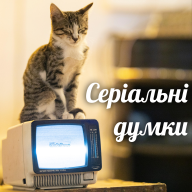
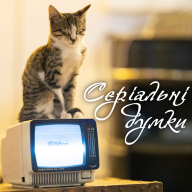
Ukrainian fonts.

diff --git a/index.html b/index.html
@@ -16,15 +16,15 @@
     <meta property="og:description" content="Враження від перегляду й огляди серіалів, їх сезонів та окремих епізодів.">
     <meta name="twitter:description" content="Враження від перегляду й огляди серіалів, їх сезонів та окремих епізодів.">
 
-    <meta property="og:image:width" content="1200"/>
-    <meta property="og:image:height" content="629"/>
+    <meta property="og:image:width" content="1400"/>
+    <meta property="og:image:height" content="1400"/>
     <meta property="og:image:type" content="image/jpeg">
     <meta name="twitter:card" content="summary_large_image">
     <meta property="og:image"
-          content="https://medias.podcastics.com/podcastics/podcasts/artwork/custom/serialni-dumki-custom-own.jpg.936d7a9ff28365bf4c5e26125db7a2c2.jpg">
+          content="https://medias.podcastics.com/podcastics/podcasts/artwork/serialni-dumki.jpg.56ff6caf467904d8b4c5453de86185c9.jpg">
     <meta property="og:image:alt" content="Серіальні думки">
     <meta name="twitter:image"
-          content="https://medias.podcastics.com/podcastics/podcasts/artwork/serialni-dumki.jpg.b6bd5a3dc5852318c66a64c08c53ad22.jpg">
+          content="https://medias.podcastics.com/podcastics/podcasts/artwork/serialni-dumki.jpg.56ff6caf467904d8b4c5453de86185c9.jpg">
     <meta name="twitter:image:alt" content="Серіальні думки">
 
     <meta name="twitter:site" content="@Abysim">
@@ -50,7 +50,7 @@
     <meta name="theme-color" content="#fce9c9">
     <meta name="msapplication-TileColor" content="#fce9c9">
 
-    <style type="text/css">
+    <style>
         html, body, div, span, applet, object, iframe, h1, h2, h3, h4, h5, h6, p, blockquote, pre, a, abbr, acronym, address, big, cite, code, del, dfn, em, img, ins, kbd, q, s, samp, small, strike, strong, sub, sup, tt, var, b, u, i, center, dl, dt, dd, ol, ul, li, fieldset, form, label, legend, table, caption, tbody, tfoot, thead, tr, th, td, article, aside, canvas, details, embed, figure, figcaption, footer, header, hgroup, menu, nav, output, ruby, section, summary, time, mark, audio, video {
             border: 0;
             font-family: inherit;
@@ -62,8 +62,13 @@
         }
 
         h1, h2 {
-            font-family: "Lobster", "Roboto", "Helvetica Neue", Helvetica, "Segoe UI", sans-serif;
+            font-family: "Chebano", Lobster, Roboto, "Helvetica Neue", Helvetica, "Segoe UI", sans-serif;
             font-weight: 400;
+            font-style: italic;
+        }
+
+        h1 {
+            font-weight: 600;
         }
 
         input[type="text"], input[type="number"] {
@@ -85,15 +90,19 @@
             -moz-osx-font-smoothing: grayscale;
             -webkit-font-smoothing: antialiased;
             color: #1b1f23;
-            font-family: "Roboto", "Helvetica Neue", Helvetica, "Segoe UI", sans-serif;
+            font-family: "ChebanykSans", Roboto, "Helvetica Neue", Helvetica, "Segoe UI", sans-serif;
             font-size: 16px;
-            font-weight: 400;
+            font-weight: 500;
             height: 100%;
             line-height: 1.4;
             margin: 0;
             min-height: 100vh;
             padding: 0;
             width: 100%;
+        }
+
+        .text, .fulltext {
+            font-size: 17px;
         }
 
         *, *:before, *:after {
@@ -103,24 +112,6 @@
         #root {
             overflow: hidden;
             height: 100%;
-        }
-
-        @font-face {
-            font-family: "Lobster";
-            font-style: normal;
-            font-weight: 400;
-            font-display: swap;
-            src: url(https://fonts.gstatic.com/s/lobster/v23/neILzCirqoswsqX9zoamM5Ez.woff2) format("woff2");
-            unicode-range: U+0400-045F, U+0490-0491, U+04B0-04B1, U+2116;
-        }
-
-        @font-face {
-            font-family: "Roboto";
-            font-style: normal;
-            font-weight: 400;
-            font-display: swap;
-            src: url(https://fonts.gstatic.com/s/roboto/v27/KFOmCnqEu92Fr1Mu5mxKOzY.woff2) format("woff2");
-            unicode-range: U+0400-045F, U+0490-0491, U+04B0-04B1, U+2116;
         }
 
         .wrapper {
@@ -198,7 +189,7 @@
 
         .paragraph {
             text-align: justify;
-            margin-top: 0.75rem;
+            margin-top: 1.25rem;
             max-height: 3rem;
         }
 
@@ -222,8 +213,8 @@
     </style>
     <style type="text/css" media="(min-width: 1000px)">
         .grid {
-            grid-gap: 2rem 1.5rem;
-            grid-template-columns: 30.75rem 1fr;
+            grid-gap: 2rem 1rem;
+            grid-template-columns: 31.25rem 1fr;
             grid-template-areas: "detail apps";
         }
 
@@ -298,7 +289,7 @@
[1 lines of base64/hex data omitted]
                             </a>
                         </div>
-                        <div class="icon flex ua-hide ru-hide by-hide">
+                        <div class="icon flex ua-hide by-hide">
                             <a href="https://open.spotify.com/show/2nZ6tzZxuoTZet5nvqYwJH" class="link flex">
[1 lines of base64/hex data omitted]
                             </a>
@@ -433,7 +424,15 @@
         </div>
     </div>
 </div>
+
 <script>
+    WebFontConfig = {
+        id: 'MjMzNTI2b3JkZXIyMjg3ODU=',
+        fonts: [/*'Chebano Bold'*/'8895761', /*'Chebanyk Sans Regular'*/'8895765'],
+        by_style: 1,
+        font_display: 'fallback'
+    };
+
     switchVisibility(getPlatform());
 
     window.addEventListener('message', function () {
@@ -498,6 +497,9 @@
             const code = ipdata.country_code.toLowerCase();
             switchVisibility(code);
         });
+</script>
+<script>
+    !function(){function t(t){var f,i=document.createElement("link"),a=e.s+"?fonts="+e.l+"&formats="+t+"&by_style="+e.a+"&by_id="+e.c;void 0!==e.d&&(a+="&font_display="+e.d),f=(location.hostname.indexOf(".local.")<0?"//rentafont.com/web_fonts/webfontcss/":"//rentafont.local.com:3000/web_fonts/webfontcss/")+a,i.setAttribute("href",f),i.setAttribute("rel","stylesheet"),i.setAttribute("type","text/css"),i.setAttribute("media","all"),i.addEventListener("load",function(t){o(s),"function"==typeof e.callback&&e.callback()}),i.addEventListener("error",function(t){o(s)});var n=s.firstChild;s.insertBefore(i,n)}var e={init:function(){this.browser=this.ss(this.db),this.version=this.sv(navigator.userAgent)||this.sv(navigator.appVersion),this.os=this.ss(this.dos),this.s=WebFontConfig.id,this.l=WebFontConfig.fonts,this.d=WebFontConfig.font_display,this.callback=WebFontConfig.callback,WebFontConfig.by_style?this.a=1:this.a=0,WebFontConfig.by_id?this.c=1:this.c=0,function(){var o=e.browser,s=e.version,i=e.os;switch(o){case"Opera":switch(!0){case s>=23:f="woff2-woff-ttf-svg";break;default:f="woff-ttf-svg"}break;case"Chrome":switch(!0){case s>=36:f="woff2-woff-svg-ttf";break;case s>=5&&s<=35:f="woff-svg-ttf-woff2";break;default:f="woff-ttf-svg-woff2"}break;case"Safari":switch(!0){case s>=10.2&&"iPhone/iPod"==i:f="woff2-woff-svg-ttf";break;case s>=5.1&&"iPhone/iPod"==i:f="woff-svg-ttf-woff2";break;case s>=4.3&&"iPhone/iPod"==i:f="ttf-svg-woff-woff2";break;case s>=12:f="woff2-woff-svg-ttf";break;case s>=11:case s>=10:case s>=5.1&&s<10:f="woff-svg-ttf-woff2";break;case s>=3.2&&s<5.1:f="svg-ttf-woff-woff2";break;default:f="woff-ttf-svg-woff2"}break;case"Mozilla":switch(!0){case s>=39:f="woff2-woff-ttf";break;case s>=3.6&&s<=38:f="woff-ttf-woff2";break;default:f="ttf-woff-woff2"}break;case"Explorer":switch(!0){case s>=9:f="woff-eot-ttf";break;default:f="eot-woff-ttf"}break;case"Firefox":case"iPhone":switch(!0){case s>=39:f="woff2-woff-ttf";break;case s>=3.6&&s<=38:f="woff-ttf-woff2";break;default:f="ttf-woff-woff2"}break;default:f="woff"}t(f)}()},ss:function(t){for(var e=0;e<t.length;e++){var f=t[e].s,o=t[e].prop;if(this.vss=t[e].ver||t[e].id,f){if(-1!=f.indexOf(t[e].st))return t[e].id}else if(o)return t[e].id}},sv:function(t){var e=t.indexOf(this.vss);if(-1!=e)return parseFloat(t.substring(e+this.vss.length+1))},db:[{s:navigator.userAgent,st:"Chrome",id:"Chrome"},{s:navigator.userAgent,st:"OmniWeb",ver:"OmniWeb/",id:"OmniWeb"},{s:navigator.vendor,st:"Apple",id:"Safari",ver:"Version"},{prop:window.opera,id:"Opera",ver:"Version"},{s:navigator.vendor,st:"iCab",id:"iCab"},{s:navigator.vendor,st:"KDE",id:"Konqueror"},{s:navigator.userAgent,st:"Firefox",id:"Firefox"},{s:navigator.vendor,st:"Camino",id:"Camino"},{s:navigator.userAgent,st:"Netscape",id:"Netscape"},{s:navigator.userAgent,st:"MSIE",id:"Explorer",ver:"MSIE"},{s:navigator.userAgent,st:"Gecko",id:"Mozilla",ver:"rv"},{s:navigator.userAgent,st:"Mozilla",id:"Netscape",ver:"Mozilla"}],dos:[{s:navigator.platform,st:"Win",id:"Windows"},{s:navigator.platform,st:"Mac",id:"Mac"},{s:navigator.userAgent,st:"iPhone",id:"iPhone/iPod"},{s:navigator.userAgent,st:"Android",id:"Android"},{s:navigator.platform,st:"Linux",id:"Linux"}]};function o(t){var e=document.getElementById("btg-renta-load-font");"undefined"!=typeof rentafontFontsLoaded?rentafontFontsLoaded():e&&t.removeChild(e)}var s=null,i=0;!function t(){if(i++,(s=document.head||document.getElementsByTagName("head")[0])&&"undefined"!=typeof WebFontConfig)"undefined"==typeof rentafontFontsLoaded&&function(t){var e=document.createElement("style");e.type="text/css",e.id="btg-renta-load-font",e.innerHTML="body *{color:transparent!important;}",t.insertBefore(e,t.firstChild)}(s),setTimeout(function(){o(s)},3e3),e.init();else{if(10==i)return 0;setTimeout(function(){t()},10)}}()}();
 </script>
 <!-- Facebook Pixel Code -->
 <script>

diff --git a/font.php b/font.php
@@ -1,0 +1,56 @@
+<?php
+header("Cache-Control: private, max-age=5");
+header("Access-Control-Allow-Origin: *");
+//header("Cache-Control: no-store, no-cache, must-revalidate, max-age=0");
+//header("Cache-Control: post-check=0, pre-check=0", false);
+//header("Pragma: no-cache");
+
+$origin = $_SERVER['HTTP_ORIGIN'];
+
+$font = intval($_GET['id'] ?? 0);
+$response = null;
+
+if (
+    $font > 0
+    && (
+        $origin == "https://www.podcastics.com"
+        || $origin == "https://serial.in.ua"
+        || $origin == "https://www.serial.in.ua"
+    ) && $_SERVER['HTTP_HOST'] == 'css.serial.in.ua'
+) {
+    $ch = curl_init();
+    curl_setopt(
+        $ch,
+        CURLOPT_URL,
+        'https://rentafont.com/web_fonts/webfontcss/MjMzNTI2b3JkZXIyMjg3ODU=?fonts='
+        . $font
+        . '&formats=woff2&by_style=1&by_id=0'
+    );
+    curl_setopt($ch, CURLOPT_RETURNTRANSFER, 1);
+
+    $headers = [
+        'Accept: ' . $_SERVER['HTTP_ACCEPT'],
+        'Accept-Encoding: identity',
+        'Accept-Language: ' . $_SERVER['HTTP_ACCEPT_LANGUAGE'],
+        'Host: rentafont.com',
+        'Origin: ' . $origin,
+        'Referer: ' . $_SERVER['HTTP_REFERER'],
+        'User-Agent: ' . $_SERVER['HTTP_USER_AGENT'],
+    ];
+
+  //  file_put_contents('log.txt', json_encode($headers) ."\n", FILE_APPEND);
+
+    curl_setopt($ch, CURLOPT_HTTPHEADER, $headers);
+
+    $response = curl_exec($ch);
+
+  //  file_put_contents('log.txt', $response ."\n", FILE_APPEND);
+}
+
+if (is_string($response) && ($start = strpos($response, ";base64,")) && ($end = strpos($response, ") format('woff2')"))) {
+    $offset = $start + 8;
+//    header("Content-Type: font/woff2");
+    echo base64_decode(substr($response,  $offset, $end - $offset));
+} else {
+    header("HTTP/2 402 Payment Required");
+}
